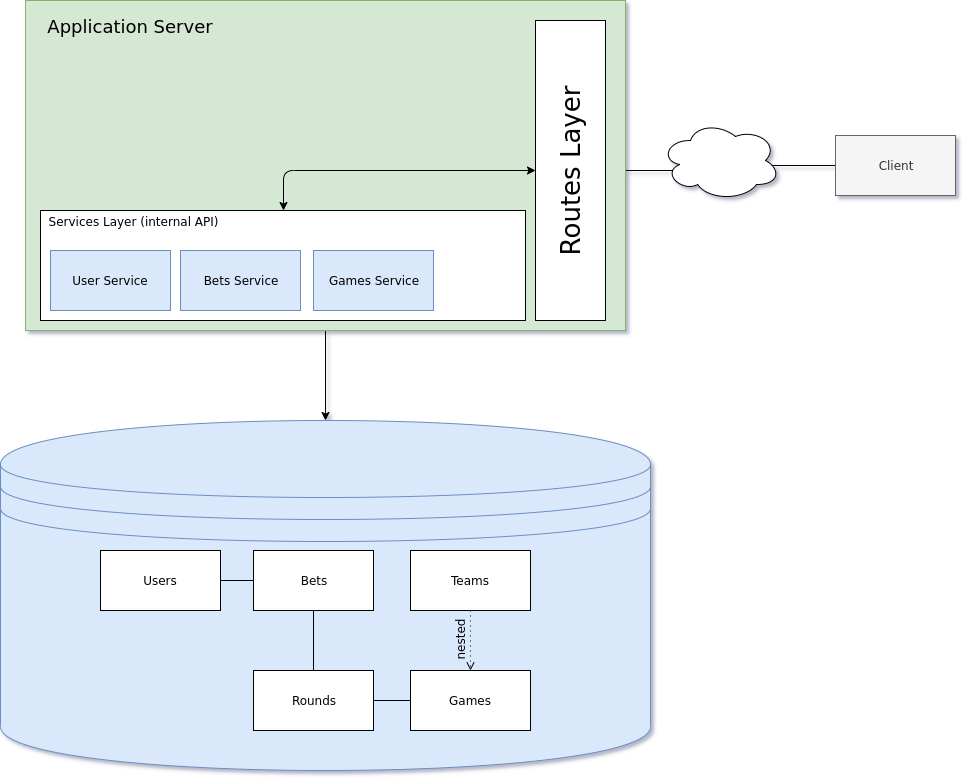
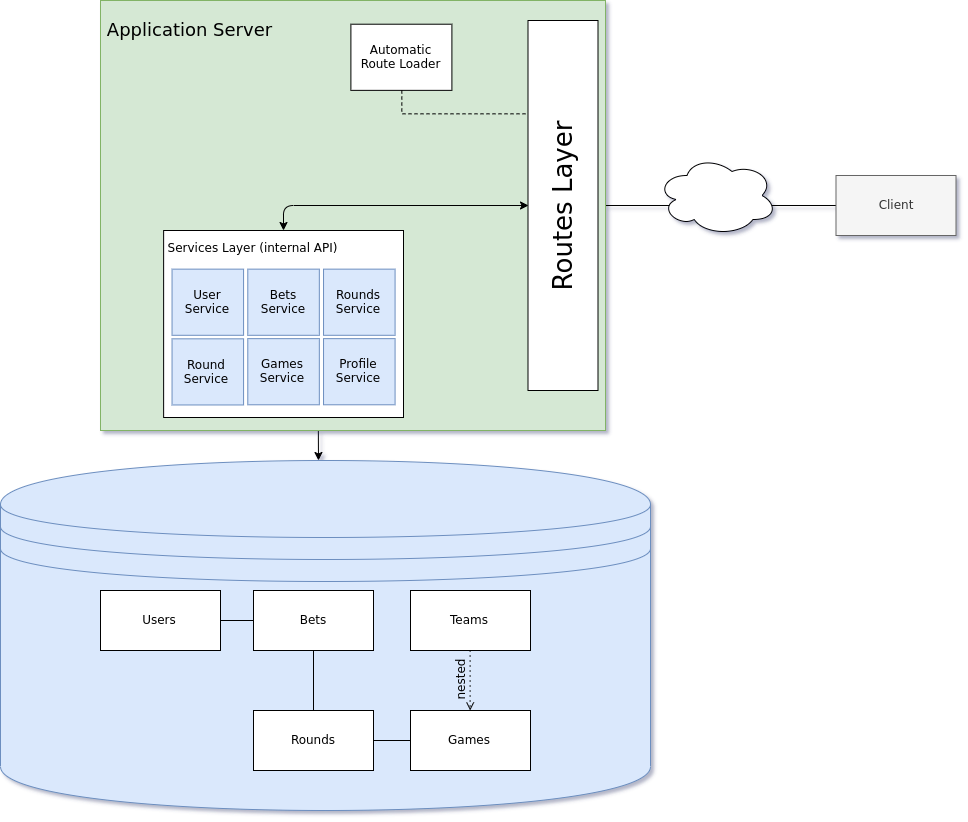
Updated docs. Updated readme. Added package to build documentation out of jsdocs.

diff --git a/README.md b/README.md
@@ -115,8 +115,15 @@ You should be able to access the application on [http://localhost:3000/](http://
 See [Game Format](docs/game_format.md)
 
 ## Technical Documentation
-* [User Interface Views](docs/ui_views.md)
+### General
 * [Code Style (vscode)](.vscode/settings.json) (ensure your personal styles don't conflict with these)
+
+### Architecture
+![Rough architecture](https://raw.githubusercontent.com/msc-dtss/super6assignment/master/docs/images/architecture.png)
+
+We try to keep our routes light by delegating the work of dealing with the database or performing any data transformation to the services layer.
+
+The services also serve as the traditional model layer since with MongoDB it didn't feel right to create objects that would represent entities in the database.
 
 ## Using git
 Use the git commands when you make changes (Visual Studio Code has a nice gui for this out of the box)
